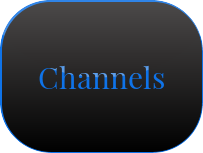
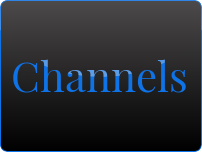
New BadAss Styling Tricks, glow and buttons

Changed region(s): [[0.0594, 0.3947, 0.9208, 0.6316], [0.0, 0.0, 1.0, 1.0], [0.7426, 0.6842, 1.0, 1.0]]

diff --git a/static/css/custom-iot.css b/static/css/custom-iot.css
@@ -1,4 +1,8 @@
 tr:nth-child(even) {background-color: #333030;}
+img:last-of-type:hover{
+    border-radius: 0px;
+    background-color: #1f1f1f;
+}
 
 @font-face {
     font-family:"MADECannes";
@@ -21,13 +25,11 @@ tr:nth-child(even) {background-color: #333030;}
 
 #TextBanner{
     color: rgb(13, 10, 150);
+    
 }
 
-#mynavbar, #mynavbar-header, #mynavbar-brand, #mynav, #navbar-fixed-top{
-    /*background-image: linear-gradient(#5d5959, black);*/
+#mynavbar, #mynavbar-header, #mynavbar-brand, #mynav, #navbar-fixed-top, #nav{
     background: linear-gradient(rgb(92, 91, 91), black);
-    border-left-color:rgb(59, 69, 70);
-    border-right-color:rgb(59, 69, 70);
    }
 
 #myInput {
@@ -39,25 +41,18 @@ tr:nth-child(even) {background-color: #333030;}
     padding: 5px 10px 5px 40px; /* Add some padding */
     border: 1px solid #4CAF50; /* Add a grey border */
     margin-bottom: 12px; /* Add some space below the input */
+    color:black;
 }
 
 #buttontable {
-    border-collapse: collapse; /* Collapse borders */
     width: 100%; /* Full-width */
     padding-top: 70px;
     padding-bottom: 20px;
-    border: 0px solid #4CAF50;
 }
-
-#buttontable th, #buttontable td{
-    border: 10px;
-}
-
 
 #myTable {
     border-collapse: collapse; /* Collapse borders */
     width: 100%; /* Full-width */
-    border: 0px solid #ddd; /* Add a grey border */
     font-size: 14px; /* Increase font-size */
     background-color: rgb(31, 29, 29);
 }
@@ -88,15 +83,13 @@ tr:nth-child(even) {background-color: #333030;}
 #myTable tr.header{
     background-color: rgb(59, 69, 70);
     background: linear-gradient(rgb(92, 91, 91), black);
-    color: rgb(76, 144, 247);
+    color: rgb(109, 166, 252);
     font-size: 14px;
 }
 
 #informationtable {
-    border-collapse: collapse; /* Collapse borders */
     width: 100%; /* Full-width */
-    border: 0px; /* Add a grey border */
-    font-size: 18px; /* Increase font-size */
+    font-size: 24px; /* Increase font-size */
     text-align: center;
 }
 
@@ -105,11 +98,10 @@ tr:nth-child(even) {background-color: #333030;}
 }
 
 #informationtable th{
-    text-align: left; /* Left-align text */
     padding: 5px; /* Add padding */
-    border-bottom: 1px solid rgb(59, 69, 70);
     text-align: center;
-    color: rgb(12, 81, 211);
+    font-size: 14px;
+    color: #0f73e8;
 }
 
 #informationtable td {
@@ -117,15 +109,8 @@ tr:nth-child(even) {background-color: #333030;}
     padding: 5px; /* Add padding */
     background-color: rgb(31, 29, 29);
     background: linear-gradient(rgb(34, 34, 34), black);
-    border-bottom: 1px solid rgb(59, 69, 70);
-    text-align: center;
     color: rgb(197, 13, 13);
     
-}
-
-#informationtable tr {
-    /* Add a bottom border to all table rows */
-    border-bottom: 1px solid #ddd; 
 }
 
 h4 {
@@ -138,8 +123,8 @@ h4 {
     }
 
 h3 {
-    color: rgb(13, 10, 150);
-    font-family: 'MADECannes';
+    color: #0f73e8;
+    font-family: 'Almendra SC', serif;
     font-weight:normal;
     font-style:bold;
     font-size: 40px;
@@ -154,63 +139,69 @@ h5 {
     }
 
 h2 {
-    color: rgb(12, 81, 211);
-    font-family: 'Ariel';
+    color: #0f73e8;
+    font-family: 'Almendra SC', serif;
     font-weight:normal;
     font-style:bold;
-    font-size: 22px;
+    font-size: 25px;
     }
 
 #profileHeader {
-    color: rgb(13, 10, 150);
-    font-family: 'MADECannes';
+    color: #0f73e8;
+    font-family: 'Almendra SC', serif;
     font-weight: normal;
     font-style: bold;
-    font-size: 50px;
+    font-size: 40px;
     padding-top: 100px;
     padding-bottom: 50px;
     }
 
 #textFooter{
-    color: rgb(30, 99, 228);
+    color: #0f73e8;
     font-family: 'Ariel';
     font-style: 'bold';
     font-size: 14px;
     }
 
-    #profileTable {
-        align-self: center;
-        width: 50%;
-        border-collapse: collapse; /* Collapse borders */
-        border: 0px solid #ddd; /* Add a grey border */
-        font-size: 14px; /* Increase font-size */
-        background-color: rgb(31, 29, 29);
+#profileTable {
+    align-self: center;
+    width: 50%;
+    border-collapse: collapse; /* Collapse borders */
+    border: 0px solid #ddd; /* Add a grey border */
+    font-size: 14px; /* Increase font-size */
+    background-color: rgb(31, 29, 29);
     }
     
-    #profileTable td {
-        width: 20%;
-        text-align: left; /* Left-align text */
-        padding: 5px; /* Add padding */
-        border-bottom: 1px solid #4CAF50;    
+#profileTable td {
+    width: 20%;
+    text-align: left; /* Left-align text */
+    padding: 5px; /* Add padding */
+    border-bottom: 1px solid #4CAF50;    
     }
     
-    #profileTable tr {
-        /* Add a bottom border to all table rows */
-        border-bottom: 1px solid #4CAF50;
+#profileTable tr {
+    /* Add a bottom border to all table rows */
+    border-bottom: 1px solid #4CAF50;
     }
     
-    #profileTable tr:hover {
-        /* Add a grey background color to the table header and on hover */
-        background-color: rgb(31, 29, 29);
+#profileTable tr:hover {
+    /* Add a grey background color to the table header and on hover */
+    background-color: rgb(31, 29, 29);
         color: rgb(17, 160, 24);
     }
     
-    #profileTable th{
-        width: 10%;
-        background-color: rgb(59, 69, 70);
-        background: linear-gradient(rgb(92, 91, 91), black);
-        color: rgb(61, 58, 236);
-        font-size: 14px;
-        text-align: center;
+#profileTable th{
+    border-bottom: 1px solid black;
+    width: 10%;
+    background-color: rgb(59, 69, 70);
+    background: linear-gradient(rgb(92, 91, 91), black);
+    color: #0f73e8;
+    font-size: 14px;
+    text-align: center;
     }
+
+#buttontable img:last-of-type:hover{
+    border-radius: 10px;
+    box-shadow: 0.1px 0.1px 10px 10px rgb(4, 3, 92);
+}
     

diff --git a/templates/base.html b/templates/base.html
@@ -13,7 +13,8 @@
         <link rel="stylesheet" href="{% static 'css/main.css' %}">
         <link rel="stylesheet" href="{% static 'css/custom-iot.css' %}">
         <link rel="stylesheet" href="{% static 'css/font.css' %}">
-        
+        <link href="https://fonts.googleapis.com/css?family=Aclonica|Indie+Flower|Almendra+SC" rel="stylesheet">
+
         <title>{% block title %}{% endblock %}</title>
         
         <script src="{% static 'js/vendor/modernizr-2.8.3-respond-1.4.2.min.js' %}"></script>
@@ -21,7 +22,7 @@
     <body id='CustomBody'>
         <nav class="mynavbar navbar-fixed-top" role="navigation" id='mynavbar'>
             <div id='mynavbar'>
-                <ul class="nav navbar-nar navbar-right" id='mynav'>
+                <ul class="nav navbar-right" id='mynav'>
                     {% if user.is_authenticated %}
                         <li><a href="/api-auth/logout"><img src="{% static '/img/buttons/square_blackgreen/button_logout.png' %}" alt="My Channels" style="width:100px;height:33px;border:0;"></a></li>
                     {% else %}
